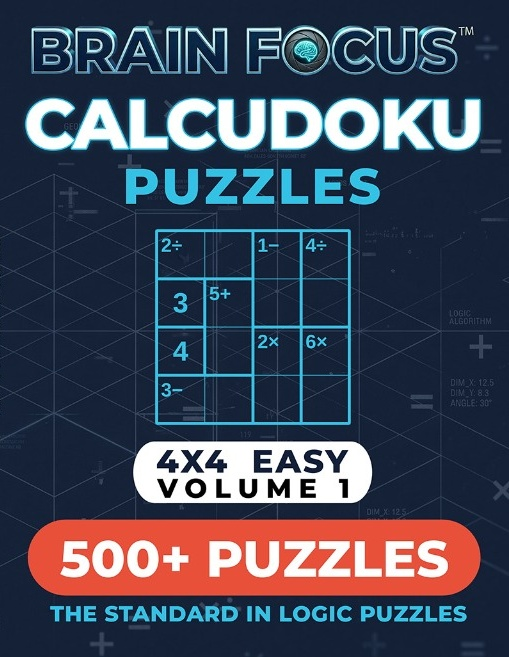
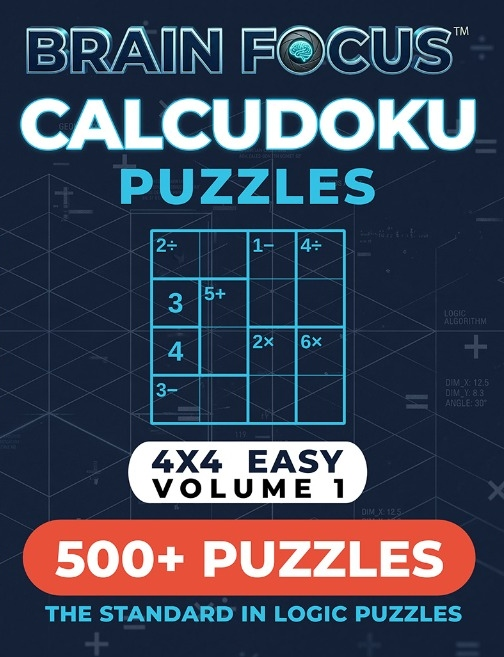
feat: add high-res branded covers for all 20 catalog volumes and refine 1st edition crop

diff --git a/script.js b/script.js
@@ -449,6 +449,7 @@ const BOOK_CATALOG = [
     subtitle: 'Fast Mental Math Flow State • 500+ Puzzles',
     volume: 'Volume 2',
     subSeries: '4x4 Easy Series',
+    coverImage: 'cover-calcudoku-4x4-v2.jpg',
     accentColor: '#1E40AF',
     accentTagBg: 'bg-blue-900/60 text-blue-300 border-blue-600/40',
     gridsCount: '504 Grids',
@@ -473,6 +474,7 @@ const BOOK_CATALOG = [
     subtitle: 'Expand Your Logic Capacity • 500+ Puzzles',
     volume: 'Volume 1',
     subSeries: '5x5 Easy Series',
+    coverImage: 'cover-calcudoku-5x5-v1.jpg',
     accentColor: '#047857',
     accentTagBg: 'bg-emerald-900/60 text-emerald-300 border-emerald-600/40',
     gridsCount: '504 Grids',
@@ -498,6 +500,7 @@ const BOOK_CATALOG = [
     subtitle: 'The Classic 6x6 Standard • 504 Grids',
     volume: 'Volume 1',
     subSeries: '6x6 Medium Series',
+    coverImage: 'cover-calcudoku-6x6-v1.jpg',
     accentColor: '#0E7490',
     accentTagBg: 'bg-cyan-900/60 text-cyan-300 border-cyan-600/40',
     gridsCount: '504 Grids',
@@ -522,6 +525,7 @@ const BOOK_CATALOG = [
     subtitle: 'From Novice to Grandmaster • 504 Grids',
     volume: 'Volume 1',
     subSeries: 'Progression Tier',
+    coverImage: 'cover-calcudoku-prog-v1.jpg',
     accentColor: '#00E5FF',
     accentTagBg: 'bg-cyan-950 text-cyan-300 border-cyan-500/50',
     gridsCount: '504 Grids',
@@ -547,6 +551,7 @@ const BOOK_CATALOG = [
     subtitle: 'Peak Mental Endurance • 504 Grids',
     volume: 'Volume 1',
     subSeries: 'Expert 9x9 Series',
+    coverImage: 'cover-calcudoku-expert-v1.jpg',
     accentColor: '#B91C1C',
     accentTagBg: 'bg-red-950 text-red-300 border-red-500/50',
     gridsCount: '504 Grids',
@@ -572,6 +577,7 @@ const BOOK_CATALOG = [
     subtitle: 'The Ultimate Math Crossword Workout',
     volume: 'Volume 1',
     subSeries: 'Kakuro Series',
+    coverImage: 'cover-kakuro-v1.jpg',
     accentColor: '#F59E0B',
     accentTagBg: 'bg-amber-950 text-amber-300 border-amber-500/50',
     gridsCount: '300 Grids',
@@ -596,6 +602,7 @@ const BOOK_CATALOG = [
     subtitle: 'Diagonal Intersections & Circle Clues',
     volume: 'Volume 1',
     subSeries: 'Mathrax Series',
+    coverImage: 'cover-mathrax-v1.jpg',
     accentColor: '#8B5CF6',
     accentTagBg: 'bg-purple-950 text-purple-300 border-purple-500/50',
     gridsCount: '250 Grids',
@@ -624,6 +631,7 @@ const BOOK_CATALOG = [
     subtitle: 'Gentle Warmup & Daily Focus Grids',
     volume: 'Volume 1',
     subSeries: 'Classic Sudoku Series',
+    coverImage: 'cover-sudoku-v1.jpg',
     accentColor: '#3B82F6',
     accentTagBg: 'bg-blue-950 text-blue-300 border-blue-500/50',
     gridsCount: '400 Grids',
@@ -648,6 +656,7 @@ const BOOK_CATALOG = [
     subtitle: 'Cognitive Vocabulary & Focus Hunts',
     volume: 'Volume 1',
     subSeries: 'Word Search Series',
+    coverImage: 'cover-wordsearch-v1.jpg',
     accentColor: '#EC4899',
     accentTagBg: 'bg-pink-950 text-pink-300 border-pink-500/50',
     gridsCount: '150 Jumbo Searches',
@@ -672,6 +681,7 @@ const BOOK_CATALOG = [
     subtitle: 'Pure Binary Logic & Row/Col Parity',
     volume: 'Volume 1',
     subSeries: 'Binary Grid Series',
+    coverImage: 'cover-binary-v1.jpg',
     accentColor: '#10B981',
     accentTagBg: 'bg-emerald-950 text-emerald-300 border-emerald-500/50',
     gridsCount: '300 Grids',
@@ -696,6 +706,7 @@ const BOOK_CATALOG = [
     subtitle: 'Intricate Number Block Deductions',
     volume: 'Volume 1',
     subSeries: 'Suguru Series',
+    coverImage: 'cover-suguru-v1.jpg',
     accentColor: '#6366F1',
     accentTagBg: 'bg-indigo-950 text-indigo-300 border-indigo-500/50',
     gridsCount: '250 Grids',
@@ -720,6 +731,7 @@ const BOOK_CATALOG = [
     subtitle: 'Inequality Grids & Continuous Loops',
     volume: 'Volume 1',
     subSeries: 'Futoshiki Series',
+    coverImage: 'cover-futoshiki-v1.jpg',
     accentColor: '#14B8A6',
     accentTagBg: 'bg-teal-950 text-teal-300 border-teal-500/50',
     gridsCount: '240 Grids',
@@ -748,6 +760,7 @@ const BOOK_CATALOG = [
     subtitle: 'Visual Addition Pyramids & Mini 3x3 Cages',
     volume: 'Level 1',
     subSeries: 'Junior STEM Line',
+    coverImage: 'cover-junior-k2.jpg',
     accentColor: '#F97316',
     accentTagBg: 'bg-orange-950 text-orange-300 border-orange-500/50',
     gridsCount: '120 Activity Pages',
@@ -773,6 +786,7 @@ const BOOK_CATALOG = [
     subtitle: 'Multiplication Times-Table & Logic Quests',
     volume: 'Level 2',
     subSeries: 'Junior STEM Line',
+    coverImage: 'cover-junior-35.jpg',
     accentColor: '#06B6D4',
     accentTagBg: 'bg-cyan-950 text-cyan-300 border-cyan-500/50',
     gridsCount: '150 Activity Pages',
@@ -797,6 +811,7 @@ const BOOK_CATALOG = [
     subtitle: 'Cross-Discipline Math, Pattern & Logic Mastery',
     volume: 'Master Pack',
     subSeries: 'Junior STEM Line',
+    coverImage: 'cover-junior-stem.jpg',
     accentColor: '#84CC16',
     accentTagBg: 'bg-lime-950 text-lime-300 border-lime-500/50',
     gridsCount: '180 STEM Challenges',
@@ -825,6 +840,7 @@ const BOOK_CATALOG = [
     subtitle: 'Zero Eye Strain & High-Visibility Grids',
     volume: 'Volume 1',
     subSeries: 'Senior Comfort Line',
+    coverImage: 'cover-senior-v1.jpg',
     accentColor: '#6D28D9',
     accentTagBg: 'bg-purple-950 text-purple-300 border-purple-500/50',
     gridsCount: '150 Jumbo Grids',
@@ -855,6 +871,7 @@ const BOOK_CATALOG = [
     subtitle: 'Daily Memory & Sharp Mind Routine',
     volume: 'Volume 2',
     subSeries: 'Senior Comfort Line',
+    coverImage: 'cover-senior-v2.jpg',
     accentColor: '#6D28D9',
     accentTagBg: 'bg-purple-950 text-purple-300 border-purple-500/50',
     gridsCount: '150 Jumbo Grids',
@@ -879,6 +896,7 @@ const BOOK_CATALOG = [
     subtitle: 'Giant 24pt Numbers & Pure Deductions',
     volume: 'Volume 1',
     subSeries: 'Senior Comfort Line',
+    coverImage: 'cover-senior-sudoku.jpg',
     accentColor: '#7C3AED',
     accentTagBg: 'bg-purple-950 text-purple-300 border-purple-500/50',
     gridsCount: '160 Jumbo Grids',
@@ -903,6 +921,7 @@ const BOOK_CATALOG = [
     subtitle: 'Relaxing High-Contrast Word Hunts',
     volume: 'Volume 1',
     subSeries: 'Senior Comfort Line',
+    coverImage: 'cover-senior-wordsearch.jpg',
     accentColor: '#9333EA',
     accentTagBg: 'bg-purple-950 text-purple-300 border-purple-500/50',
     gridsCount: '120 Giant Searches',
